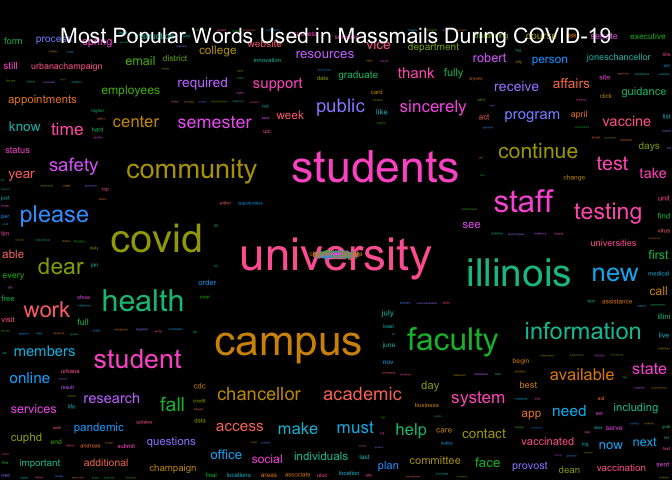
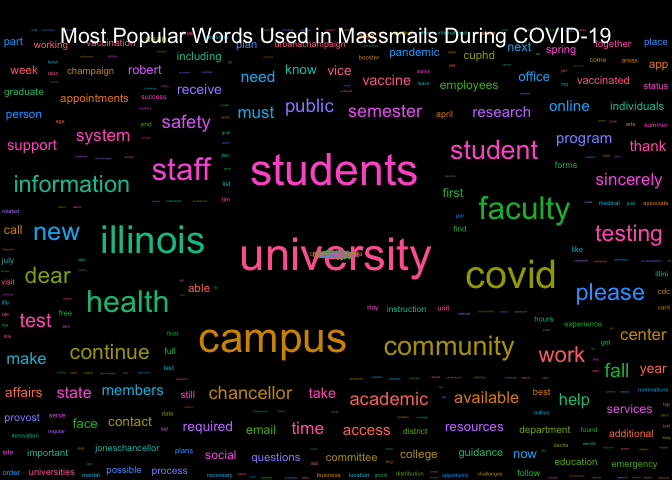
Re-build README.Rmd and Graphs

Changed region(s): [[0.0, 0.0625, 1.0, 1.0], [0.4688, 0.5312, 0.5312, 0.5625], [0.75, 0.625, 0.7812, 0.6562]]

diff --git a/README.md b/README.md
@@ -17,7 +17,7 @@ The archive may be viewed here:
 
 <https://massmail.illinois.edu/massmailArchive>
 
-Data has **827** observations and **7** variables:
+Data has **829** observations and **7** variables:
 
   - `datetime`: Date and time when the email was sent in the form of
     `YYYY-MM-DD HMS` with either CDT or CST.
@@ -210,16 +210,16 @@ head(most_popular_words, 10) %>%
 
 | word       | freq |
 | :--------- | ---: |
-| university | 1611 |
-| students   | 1438 |
-| campus     | 1305 |
+| university | 1614 |
+| students   | 1443 |
+| campus     | 1313 |
 | illinois   | 1052 |
 | covid      | 1033 |
-| faculty    |  847 |
-| community  |  818 |
-| health     |  753 |
-| staff      |  693 |
-| student    |  667 |
+| faculty    |  850 |
+| community  |  819 |
+| health     |  756 |
+| staff      |  695 |
+| student    |  674 |
 
 #### Wordcloud
 
